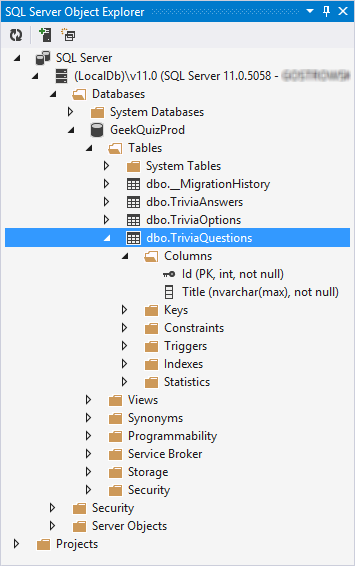
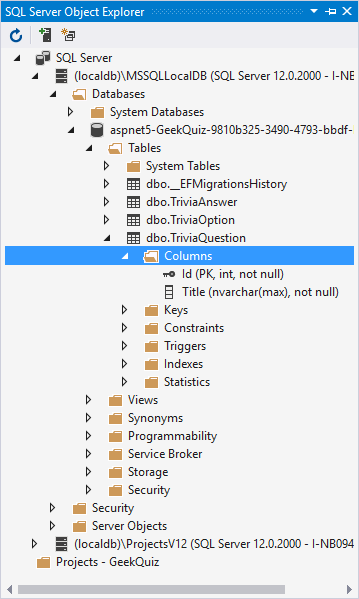
Updated document and screenshots for first exercise.

diff --git a/HOL/WebSitesInProduction/README.md b/HOL/WebSitesInProduction/README.md
@@ -33,9 +33,15 @@ In this hands-on lab, you will learn how to:
 
 The following is required to complete this hands-on lab:
 
-- [Visual Studio Community 2013][1] or greater
+- [Visual Studio Community 2015][1] or greater
 - [Azure SDK for Visual Studio 2015][2] or later
 - [GIT Version Control System][3]
+- Enable the ASP.NET 5 command-line tools. Open a command-prompt and run:
+
+	````
+	dnvm upgrade
+	````
+
 - A Microsoft Azure subscription
 	- Sign up for a [Free Trial][4]
 	- If you are a Visual Studio Professional, Test Professional, Premium or Ultimate with MSDN or MSDN Platforms subscriber, activate your [MSDN benefit][5] now to start developing and testing on Microsoft Azure
@@ -104,51 +110,39 @@ In this task, you will go through the steps of enabling **Entity Framework Code 
 
 1. Build the solution in order to download and install the **NuGet** package dependencies. To do this, right-click the solution and click **Build Solution** or press **Ctrl + Shift + B**.
 
-1. From the **Tools** menu in Visual Studio, select **NuGet Package Manager**, and then **Package Manager Console**.
+1. In the **Solution Explorer**, select the GeekQuiz project and press **Shift + Alt + ,** to open a Command Prompt in the folder where the project is located.
 
-1. In the **Package Manager Console**, enter the following command and then press **Enter**. An initial migration based on the existing model will be created.
-	
-	>**Note:** This command adds a **Migrations** folder to the Geek Quiz project that contains a file called **Configuration.cs**. The **Configuration** class allows you to configure how Migrations behaves for your context. 
+1. In the **Command Prompt** you just opened, enter the following command and then press **Enter**. An initial migration based on the existing model will be created.
 
+	<!-- mark:1 -->
 	````PowerShell
-	Enable-Migrations -ContextTypeName GeekQuiz.Models.TriviaContext 
+	dnx ef migrations add InitialMigration --context TriviaDbContext
 	````
 	
-	![Enabling Migrations](Images/enabling-migrations.png?raw=true "Enabling Migrations")
-	
-	_Enabling Migrations_
-	
-1. With Migrations enabled, you need to update the **Configuration** class to populate the database with the initial data that **Geek Quiz** requires. Replace the **Configuration.cs** file located in the **Migrations** folder with the one located in the **Source\Assets** folder of this lab.
+	![Creating the initial migration](Images/creating-the-initial-migration.png?raw=true "Creating the initial migration")
 
-	> **Note:** Since **Migrations** will call the **Seed** method with every database update, you need to be sure that records are not duplicated in the database. The **AddOrUpdate** method will help to prevent duplicate data.
-	
-1. To add an initial migration, enter the following command and then press **Enter**.
+	_Creating the initial migration_
 
 	>**Note:** Make sure that there is no database named "GeekQuizProd" in your LocalDB instance.
+	>
+	>**Note:** `dnx ef migrations add` will scaffold the next migration based on changes you have made to your model since the last migration was created. In this case, being the first migration of the project, it will add the scripts to create all the tables defined in the **TriviaDbContext** class.	
 
-	<div> </div>
+1. Back in Visual Studio, verify that the new migration was created inside the **TriviaDb** folder located under the **Migrations** folder.
 
-	>**Note:** **Add-Migration** will scaffold the next migration based on changes you have made to your model since the last migration was created. In this case, being the first migration of the project, it will add the scripts to create all the tables defined in the **TriviaContext** class.	
+	![Verifying the initial migration](Images/verifying-the-initial-migration.png?raw=true "Verifying the initial migration")
 
+	_Verifying the initial migration_
+
+1. Execute the migration to update the database by running the following command in the **Command Prompt**.
+
+	>**Note:** `dnx ef database update` will apply any pending migrations to the database. In this case, it will create the database using the connection string defined in your appsettings.json file.
+
+	<!-- mark:1 -->
 	````PowerShell
-	Add-Migration InitialSchema
+	dnx ef database update --context TriviaDbContext
 	````
-	
-	![Adding base schema migration](Images/adding-base-schema-migration.png?raw=true "Adding base schema migration")
-	
-	_Adding base schema migration_
-	
-1. Execute the migration to update the database by running the following command. For this command you will specify the **Verbose** flag to view the SQL statements being applied to the target database.
 
-	>**Note:** **Update-Database** will apply any pending migrations to the database. In this case, it will create the database using the connection string defined in your web.config file.
-
-	````PowerShell
-	Update-Database -Verbose
-	````
-	
-	![Creating initial database](Images/creating-initial-database.png?raw=true "Creating initial database")
-	
-	_Creating initial database_
+	![Applying the initial migration](Images/applying-the-initial-migration.png?raw=true "Applying the initial migration")
 	
 1. Go to the **View** menu and open **SQL Server Object Explorer**.
 
@@ -162,13 +156,13 @@ In this task, you will go through the steps of enabling **Entity Framework Code 
 
 	_Adding a SQL Server instance to SQL Server Object Explorer_
 	
-1. Set the **Server name** to **(LocalDb)\v11.0** and leave **Windows Authentication** as your authentication mode. Click **Connect** to continue.
+1. Set the **Server name** to **(localdb)\MSSQLLocalDB** and leave **Windows Authentication** as your authentication mode. Click **Connect** to continue.
 
 	![Connecting to LocalDB](Images/connecting-to-localdb.png?raw=true "Connecting to LocalDB")
 	
 	_Connecting to LocalDB_
 	
-1. Open the **GeekQuizProd** database and expand the **Tables** node. As you can see, the **Update-Database** command generated all the tables defined in the **TriviaContext** class. Locate the **dbo.TriviaQuestions** table and open the columns node. In the next task, you will add a new column to this table and update the database using **Migrations**. 
+1. Open the **GeekQuizProd** database and expand the **Tables** node. As you can see, the `dnx ef database update` command generated all the tables defined in the **TriviaDbContext** class. Locate the **dbo.TriviaQuestion** table and open the columns node. In the next task, you will add a new column to this table and update the database using **Migrations**. 
 
 	![Trivia Questions Columns](Images/trivia-questions-columns.png?raw=true "Trivia Questions Columns")
 
@@ -177,7 +171,7 @@ In this task, you will go through the steps of enabling **Entity Framework Code 
 <a name="Ex1Task2" />
 #### Task 2 - Updating Database Schema Using Migrations ####
 	
-In this task, you will use **Entity Framework Code First Migrations** to detect a change in your model and generate the necessary code to update the database. You will update the **TriviaQuestions** entity by adding a new property to it. Then you will run commands to create a new Migration to include the new column in the table.
+In this task, you will use **Entity Framework Code First Migrations** to detect a change in your model and generate the necessary code to update the database. You will update the **TriviaQuestion** entity by adding a new property to it. Then you will run commands to create a new Migration to include the new column in the table.
 
 1. In **Solution Explorer**, double-click the **TriviaQuestion.cs** file located in the **Models** folder.
 
@@ -198,82 +192,32 @@ In this task, you will use **Entity Framework Code First Migrations** to detect 
 	}
 	````
 
-1. In the **Package Manager Console**, enter the following command and then press **Enter**. A new migration will be created reflecting the change in our model.
+1. Switch back to the **Command Prompt**, enter the following command and then press **Enter**. A new migration will be created reflecting the change in our model.
 
 	<!-- mark:1 -->
 	````PowerShell
-	Add-Migration QuestionHint
+	dnx ef migrations add QuestionHint --context TriviaDbContext
 	````
-	
-	![Add-Migration](Images/add-migration.png?raw=true "Add-Migration")
-	
-	_Add-Migration_
 	
 	> **Note:** A Migration file is composed of two methods, **Up** and **Down**. 
 	
-	>* The **Up** method will be used to specify the changes the current version of our application needs to apply to the database. 
-	>* The **Down** method is used to reverse the changes we have added to the **Up** method. 
+	> * The **Up** method will be used to specify the changes the current version of our application needs to apply to the database. 
+	> * The **Down** method is used to reverse the changes we have added to the **Up** method. 
 	
-	>When the Database Migration updates the database, it will run all migrations that have not been used since the last update in the timestamp (The _MigrationHistory table keeps track of which migrations have been applied). The **Up** method of all migrations will be called and will make the changes we have specified to the database. If we decide to go back to a previous migration, the **Down** method will be called to redo the changes in reverse order.
+	> When the Database Migration updates the database, it will run all migrations that have not been used since the last update in the timestamp (The _EFMigrationsHistory table keeps track of which migrations have been applied). The **Up** method of all migrations will be called and will make the changes we have specified to the database. If we decide to go back to a previous migration, the **Down** method will be called to redo the changes in reverse order.
 
-1. In the **Package Manager Console**, enter the following command and then press **Enter**.
-	
+1. In the **Command Prompt**, enter the following command and then press **Enter**.
+
+	<!-- mark:1 -->
 	````PowerShell
-	Update-Database -Verbose
+	dnx ef database update --context TriviaDbContext
 	````
 
-	The output of the **Update-Database** command shows an **Alter Table** SQL statement to add a new column to the **TriviaQuestions** table, as shown in the image below.
+1. In **SQL Server Object Explorer**, refresh the **dbo.TriviaQuestion** table and check that the new **Hint** column is displayed.
 
-	![Add column SQL statement generated](Images/add-column-sql-statement-generated.png?raw=true "Add column SQL statement generated")
-	
-	_Add column SQL statement generated_
+	![Checking the new Hint Column](Images/checking-the-new-hint-column.png?raw=true "Checking the new Hint Column")
 
-1. In **SQL Server Object Explorer**, refresh the **dbo.TriviaQuestions** table and check that the new **Hint** column is displayed.
-
-	![Showing the new Hint Column](Images/showing-the-new-hint-column.png?raw=true "Showing the new Hint Column")
-
-	_Showing the new Hint Column_
-
-1. Back in the **TriviaQuestion.cs** editor, add a **StringLength** constraint to the _Hint_ property, as shown in the following code snippet.
-
-	<!-- mark:10 -->
-	````C#
-	public class TriviaQuestion
-	{
-		 public int Id { get; set; }
-
-		 [Required]
-		 public string Title { get; set; }
-
-		 public virtual List<TriviaOption> Options { get; set; }
-
-		 [StringLength(150)]
-		 public string Hint { get; set; }
-	}
-	````
-
-1. In the **Package Manager Console**, enter the following command and then press **Enter**.
-	
-	````PowerShell
-	Add-Migration QuestionHintLength
-	````
-1. In the **Package Manager Console**, enter the following command and then press **Enter**.
-
-	````PowerShell
-	Update-Database -Verbose
-	````
-
-	The output of the **Update-Database** command generated an **Alter Table** SQL statement to update the _hint_ column type of the **TriviaQuestions** table, as shown in the image below.
-
-	![Alter column SQL statement generated](Images/alter-column-sql-statement-generated.png?raw=true "Alter column SQL statement generated")
-	
-	_Alter column SQL statement generated_
-
-1. In **SQL Server Object Explorer**, refresh the **dbo.TriviaQuestions** table and check that the **Hint** column type is **nvarchar(150)**.
-
-	![Showing the new constraint](Images/showing-the-new-constraint.png?raw=true "Showing the new constraint")
-
-	_Showing the new constraint_
+	_Checking the new Hint Column_
 
 <a name="Exercise2" />
 ### Exercise 2: Deploying a Web Site to Staging ###
@@ -898,7 +842,7 @@ In this task you will use the Azure Portal to enable the Autoscale feature for t
 
 Now that **Autoscale** has been configured, you will create a **Web Performance and Load Test Project** in Visual Studio to generate some CPU load on your Web App.
 
-1. Open **Visual Studio Ultimate 2013** and select **File | New | Project...** to start a new solution.
+1. Open **Visual Studio Ultimate 2015** and select **File | New | Project...** to start a new solution.
 
 	![Creating a new project](Images/creating-a-new-project.png?raw=true "Creating a new project")
 
